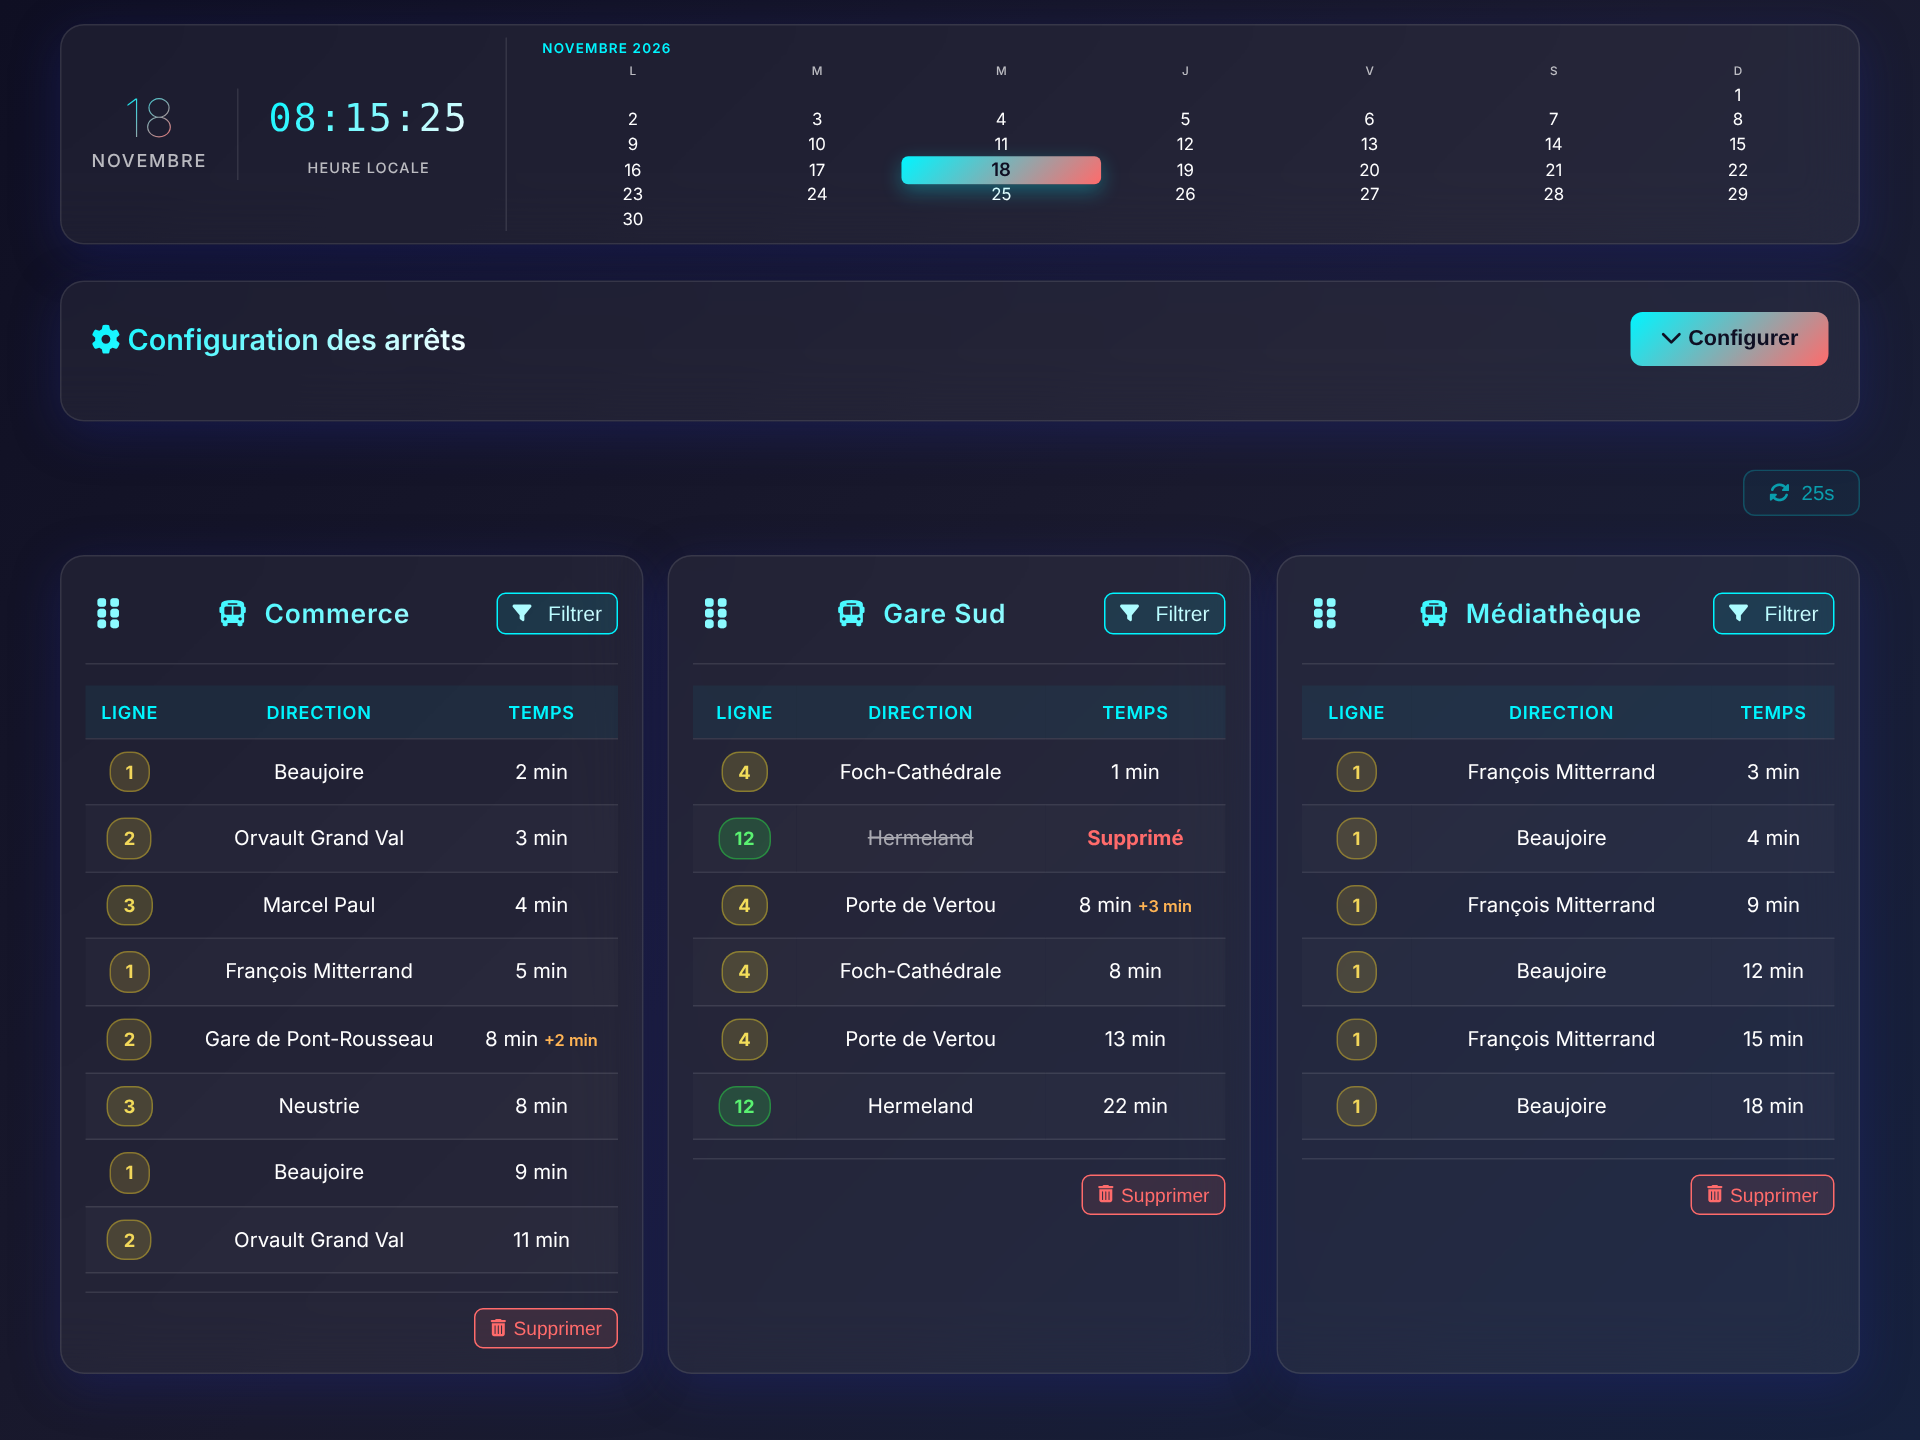
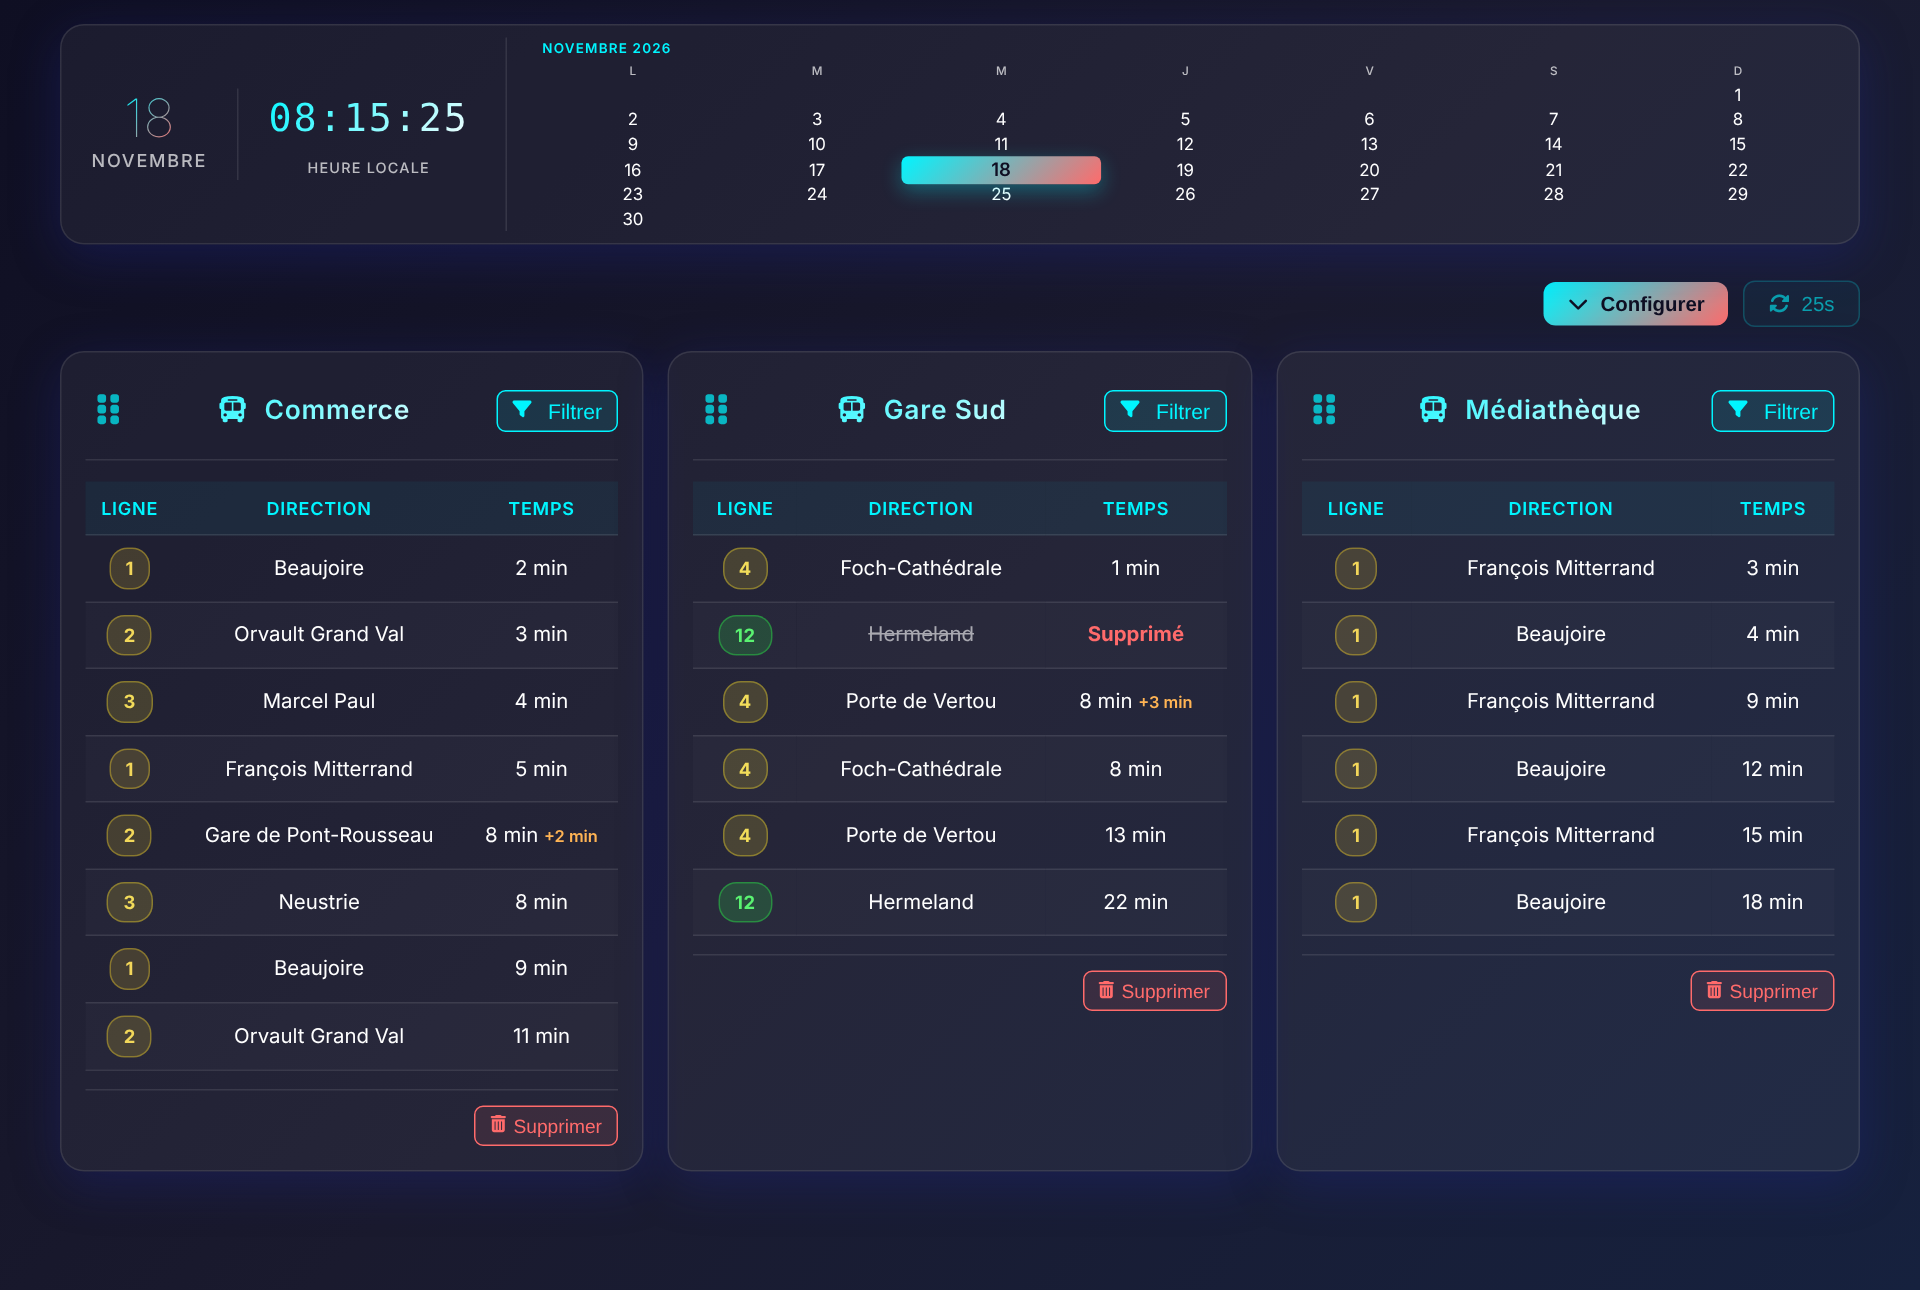
Remplace le bloc de configuration par un bouton « Configurer » à côté du décompte
Le bloc « Configuration des arrêts » disparaît : une barre d'outils réunit
le bouton « Configurer » (toujours visible, même sans arrêt) et le décompte
d'actualisation. Le panneau de sélection s'ouvre en dessous. Capture du README
mise à jour.

diff --git a/MES_ARRETS_NANTES.html b/MES_ARRETS_NANTES.html
@@ -248,41 +248,36 @@
             gap: var(--spacing);
         }
 
+        /* Panneau de sélection des arrêts (affiché par le bouton « Configurer ») */
         .config-section {
             background: var(--widget-bg);
             border: 1px solid var(--border-color);
             border-radius: var(--border-radius);
             padding: 20px;
             box-shadow: var(--glass-shadow);
-            margin-bottom: var(--spacing);
         }
 
-        .config-header {
+        /* Barre d'outils : bouton « Configurer » à côté du décompte d'actualisation */
+        .toolbar {
             display: flex;
-            justify-content: space-between;
+            justify-content: flex-end;
             align-items: center;
-            margin-bottom: 16px;
-        }
-
-        .config-title {
-            font-size: 1.2em;
-            font-weight: 600;
-            background: linear-gradient(135deg, var(--accent-color), var(--text-color));
-            -webkit-background-clip: text;
-            -webkit-text-fill-color: transparent;
-            background-clip: text;
+            gap: 10px;
         }
 
         .config-button {
             background: linear-gradient(135deg, var(--accent-color), var(--accent-secondary));
             color: #0f0f23;
             border: none;
-            padding: 10px 20px;
+            padding: 7px 16px;
             border-radius: 8px;
             font-weight: 600;
             cursor: pointer;
             transition: var(--transition);
-            font-size: 0.9em;
+            font-size: 0.85em;
+            display: flex;
+            align-items: center;
+            gap: 8px;
         }
 
         .config-button:hover {
@@ -566,9 +561,7 @@
 
         .refresh-bar {
             display: flex;
-            justify-content: flex-end;
             align-items: center;
-            padding: 0 0 10px 0;
         }
 
         .refresh-button {
@@ -996,40 +989,38 @@
     </div>
 
     <main class="main-container">
-        <section class="config-section">
-            <div class="config-header">
-                <h2 class="config-title"><i class="fas fa-cog"></i> Configuration des arrêts</h2>
-                <button class="config-button" id="toggleConfig" aria-expanded="false" aria-controls="stopSelector">
-                    <i class="fas fa-chevron-down" aria-hidden="true"></i> Configurer
-                </button>
-            </div>
-            <div id="stopSelector" class="hidden">
-                <div class="search-container">
-                    <label for="searchInput" class="sr-only">Rechercher un arrêt</label>
-                    <input type="search"
-                           class="search-input"
-                           id="searchInput"
-                           autocomplete="off"
-                           placeholder="Rechercher un arrêt...">
-                </div>
-                <div id="stopList" class="stop-selector"></div>
-                <div class="storage-info">
-                    <i class="fas fa-save"></i>
-                    <span>Vos préférences sont sauvegardées automatiquement dans votre navigateur</span>
-                </div>
-                <button class="clear-storage-button" id="clearStorage">
-                    <i class="fas fa-trash-alt"></i>
-                    <span>Effacer toutes les données sauvegardées</span>
-                </button>
-            </div>
-        </section>
-
-        <div class="refresh-bar hidden" id="refreshBar">
-            <button class="refresh-button" id="refreshBtn" type="button" disabled>
-                <i class="fas fa-sync-alt"></i>
-                <span id="refreshLabel">Chargement...</span>
+        <div class="toolbar">
+            <button class="config-button" id="toggleConfig" type="button" aria-expanded="false" aria-controls="stopSelector">
+                <i class="fas fa-chevron-down" aria-hidden="true"></i> Configurer
             </button>
+            <div class="refresh-bar hidden" id="refreshBar">
+                <button class="refresh-button" id="refreshBtn" type="button" disabled>
+                    <i class="fas fa-sync-alt" aria-hidden="true"></i>
+                    <span id="refreshLabel">Chargement...</span>
+                </button>
+            </div>
         </div>
+
+        <section class="config-section hidden" id="stopSelector" aria-labelledby="configTitle">
+            <h2 class="sr-only" id="configTitle">Configuration des arrêts</h2>
+            <div class="search-container">
+                <label for="searchInput" class="sr-only">Rechercher un arrêt</label>
+                <input type="search"
+                       class="search-input"
+                       id="searchInput"
+                       autocomplete="off"
+                       placeholder="Rechercher un arrêt...">
+            </div>
+            <div id="stopList" class="stop-selector"></div>
+            <div class="storage-info">
+                <i class="fas fa-save" aria-hidden="true"></i>
+                <span>Vos préférences sont sauvegardées automatiquement dans votre navigateur</span>
+            </div>
+            <button class="clear-storage-button" id="clearStorage" type="button">
+                <i class="fas fa-trash-alt" aria-hidden="true"></i>
+                <span>Effacer toutes les données sauvegardées</span>
+            </button>
+        </section>
 
         <section id="transportGrid" class="transport-grid"></section>
     </main>
@@ -1418,7 +1409,7 @@
 
                 if (AppState.selectedStops.length === 0) {
                     this.stopCountdown();
-                    container.innerHTML = '<div class="error" style="grid-column: 1/-1;">Aucun arrêt sélectionné. Configurez vos arrêts ci-dessus.</div>';
+                    container.innerHTML = '<div class="error" style="grid-column: 1/-1;">Aucun arrêt sélectionné. Cliquez sur « Configurer » pour en ajouter.</div>';
                     if (refreshBar) refreshBar.classList.add('hidden');
                     return;
                 }
